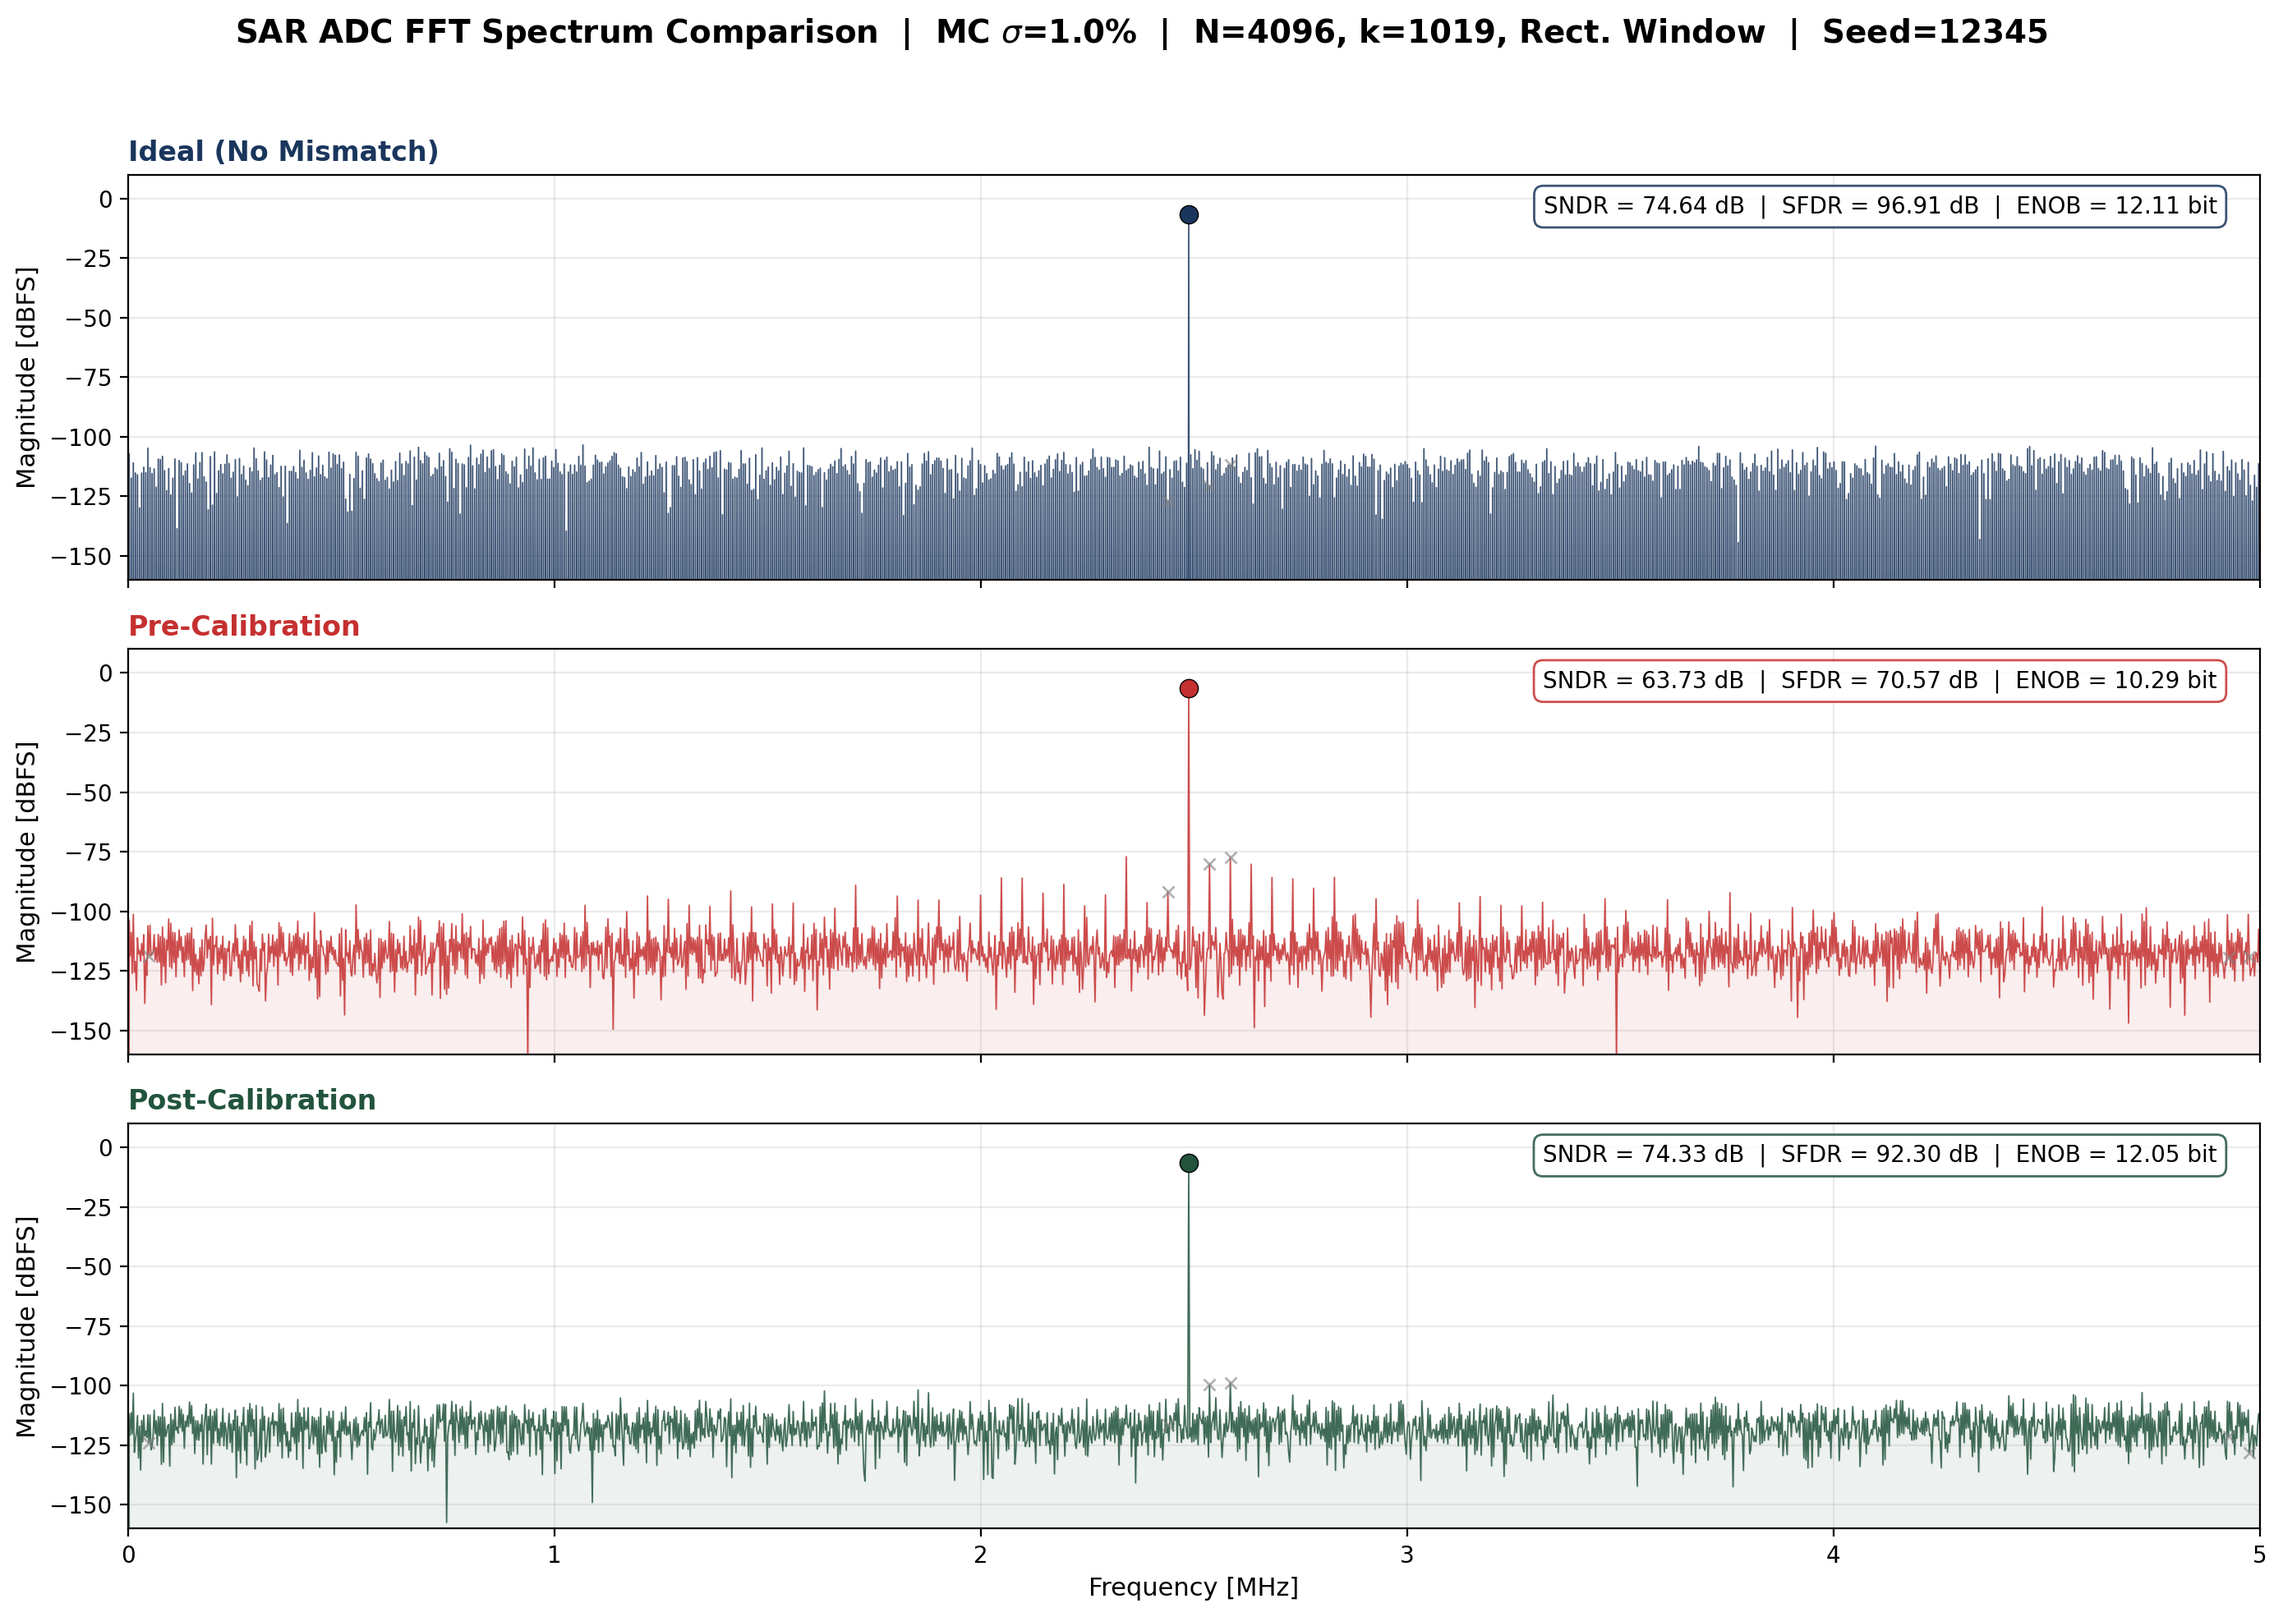
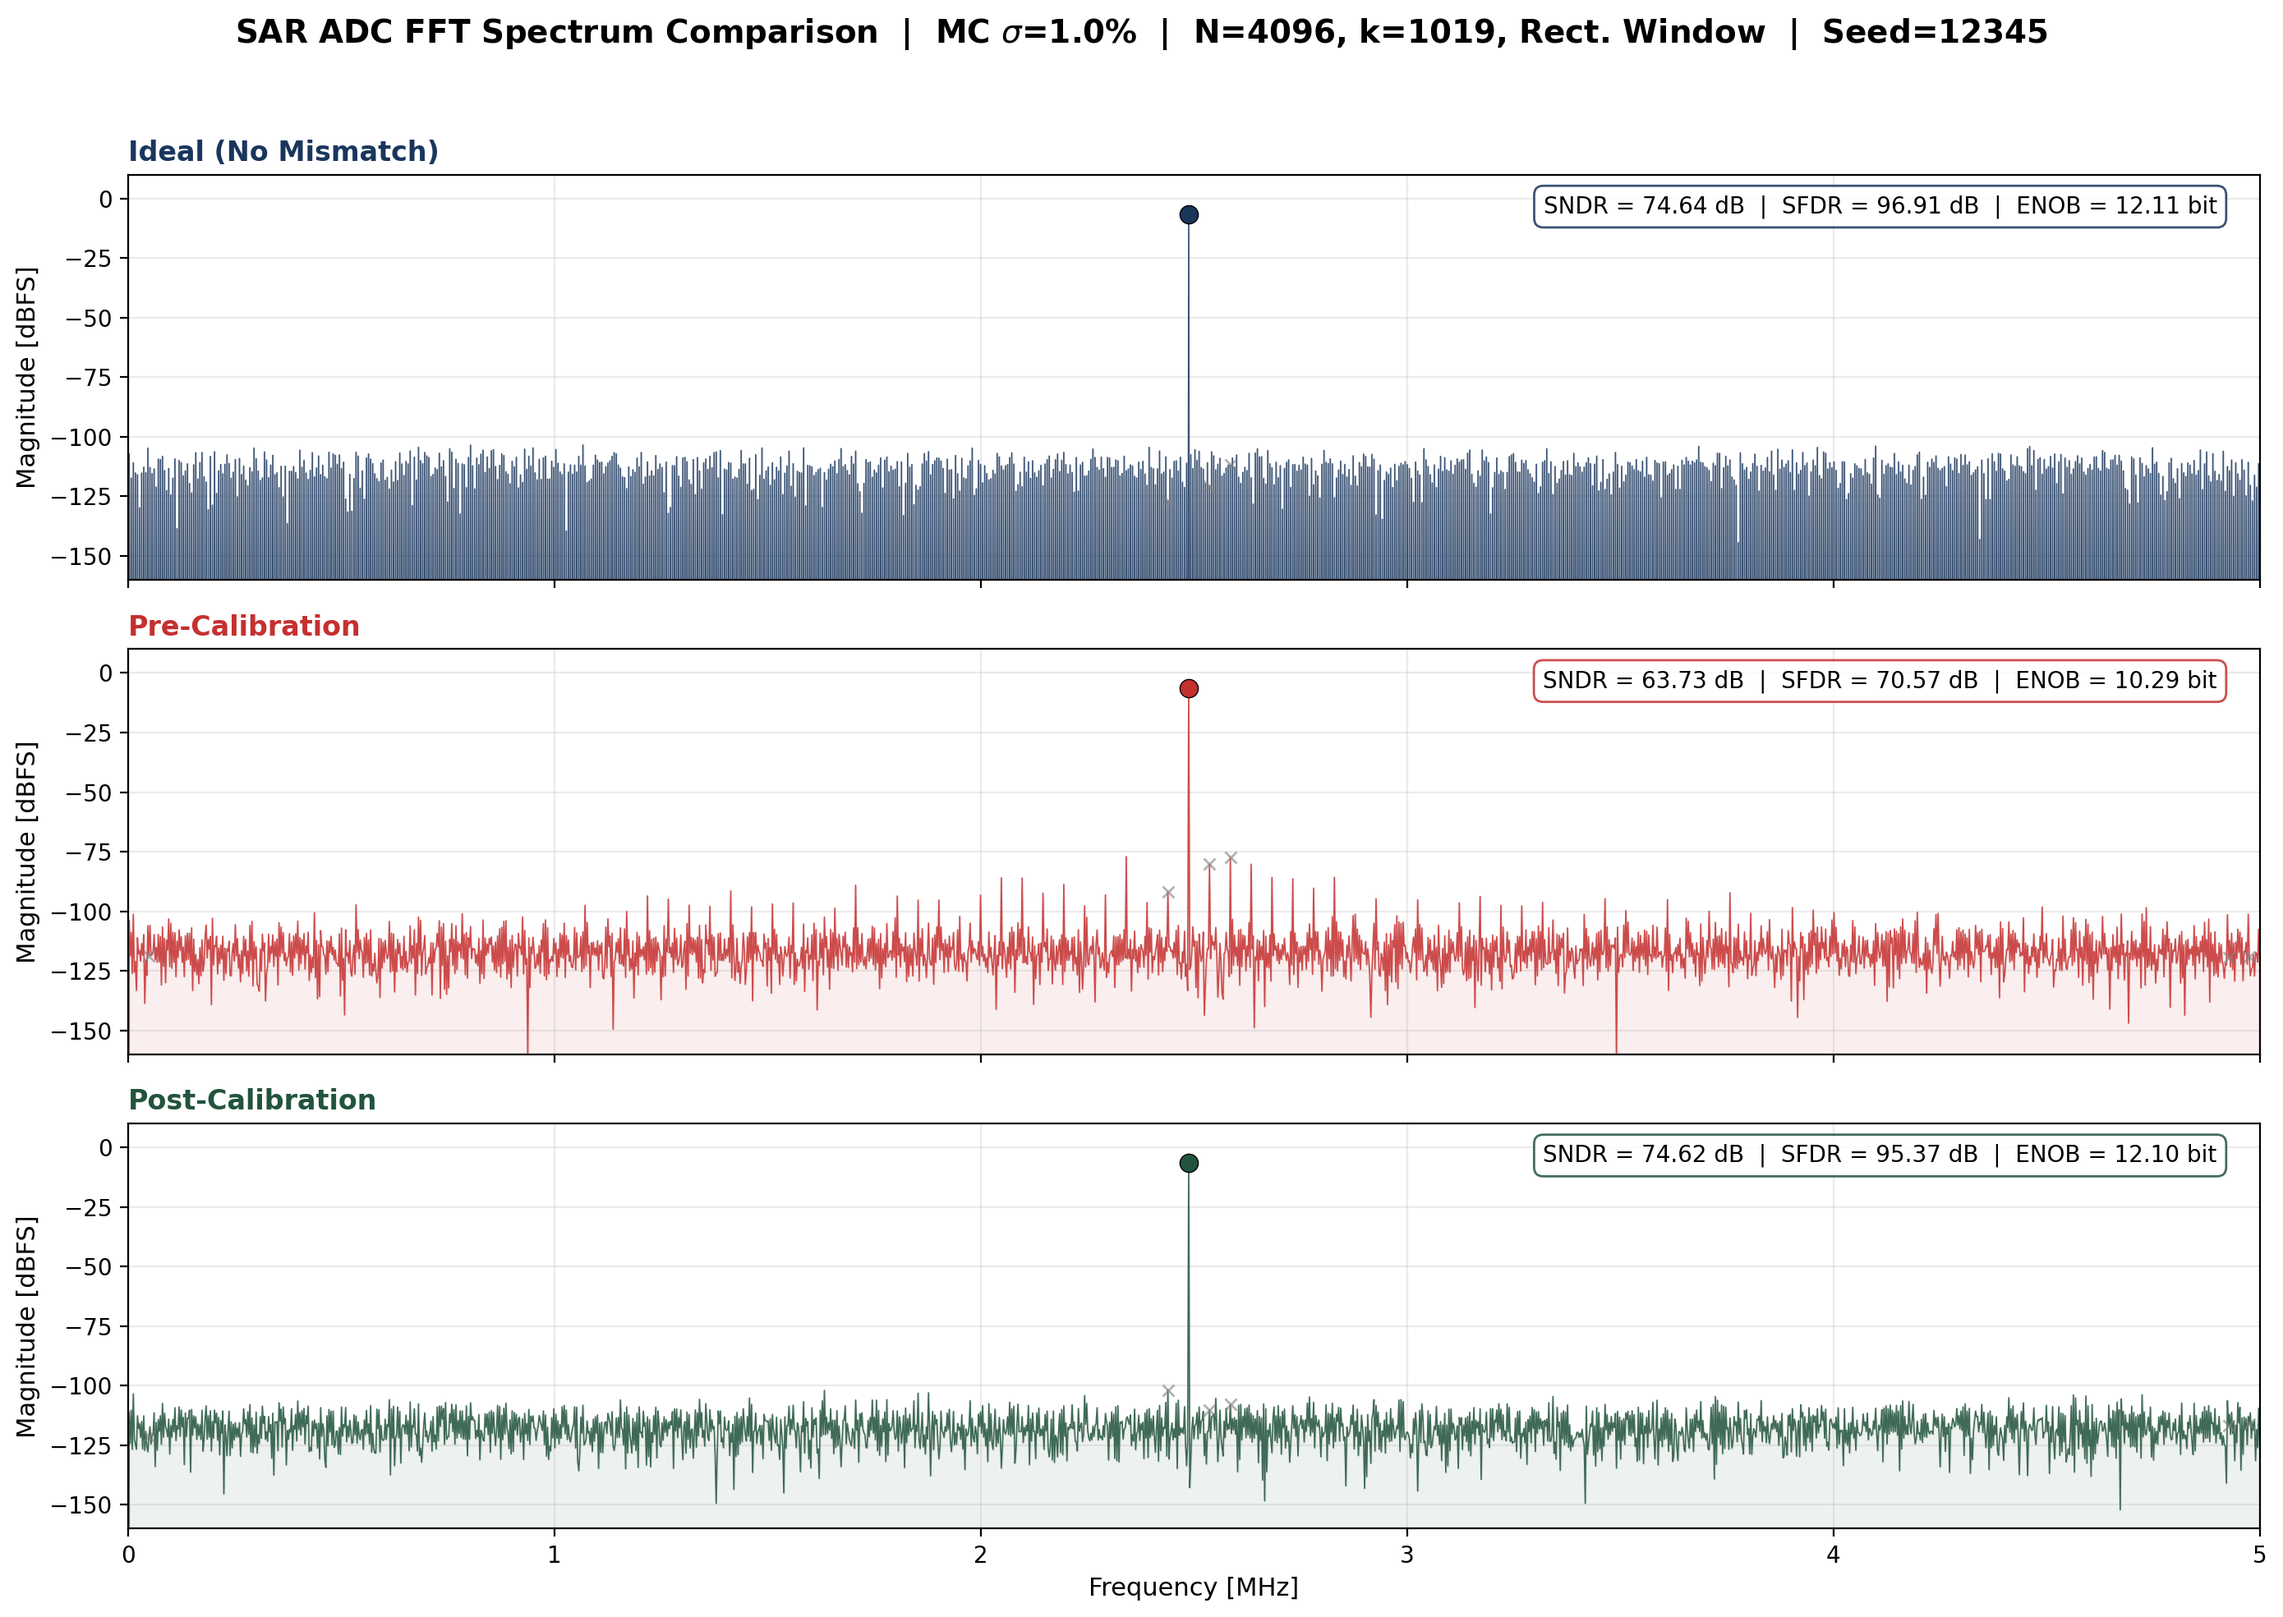
feat: unify comparator noise to 300 uV RMS, oracle gap improves from 0.32 to 0.03 dB

Changed region(s): [[0.0619, 0.8674, 0.9903, 0.9294]]

diff --git a/src/python_cal/config.py b/src/python_cal/config.py
@@ -167,12 +167,9 @@ PHYSICAL_TO_WEIGHT_STAGE = {  # deprecated: 仅作文档保留
     8: 6, 9: 5, 10: 4, 11: 3, 12: 2, 13: 1, 14: 0,
 }
 
-# ── 比较器噪声 ──
-# 校准期间: 1 mV RMS (保守, 512->128 对仍可靠)
-# 正常转换: 0.15 LSB RMS
-# 若比较器能做到 200-500 uV, AVG_PAIRS 可进一步降至 8-32
-CAL_NOISE_SIGMA_V = 0.001    # 校准噪声 RMS [V]
-CONV_NOISE_SIGMA_LSB = 0.15  # 转换噪声 RMS [LSB]
+# ── 比较器噪声 ──  统一 300 μV RMS
+CAL_NOISE_SIGMA_V = 0.0003    # 300 μV RMS
+CONV_NOISE_SIGMA_LSB = 0.68   # 300 μV / (VREF/4096)
 
 FFT_N = 4096
 FFT_K = 1019   # ~2.49 MHz @ Fs=10 MHz (was 127, ~310 kHz)
